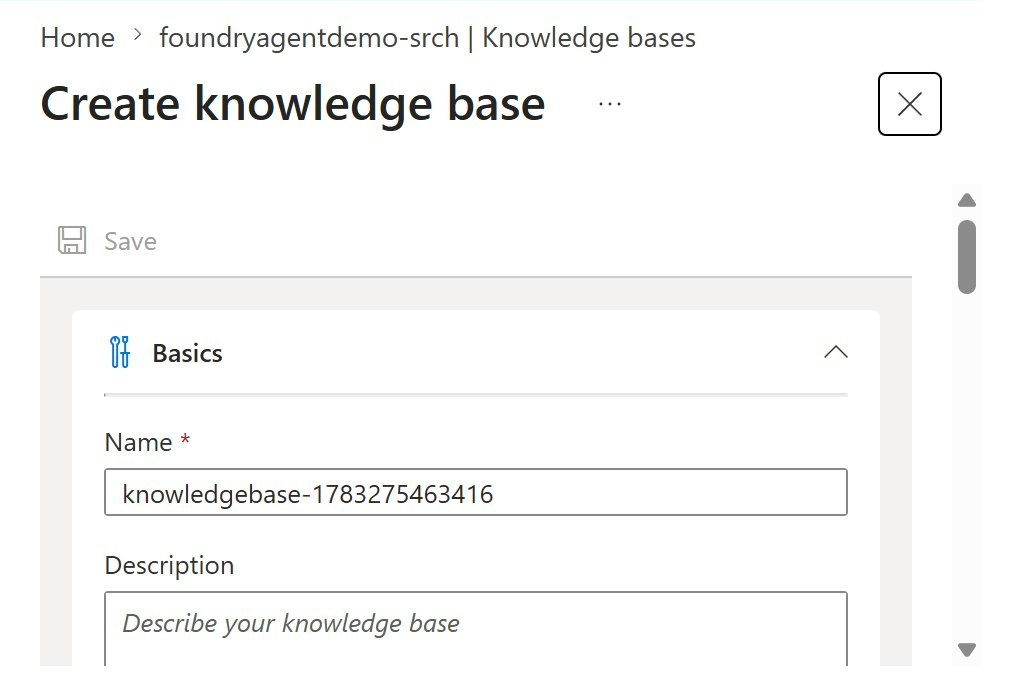
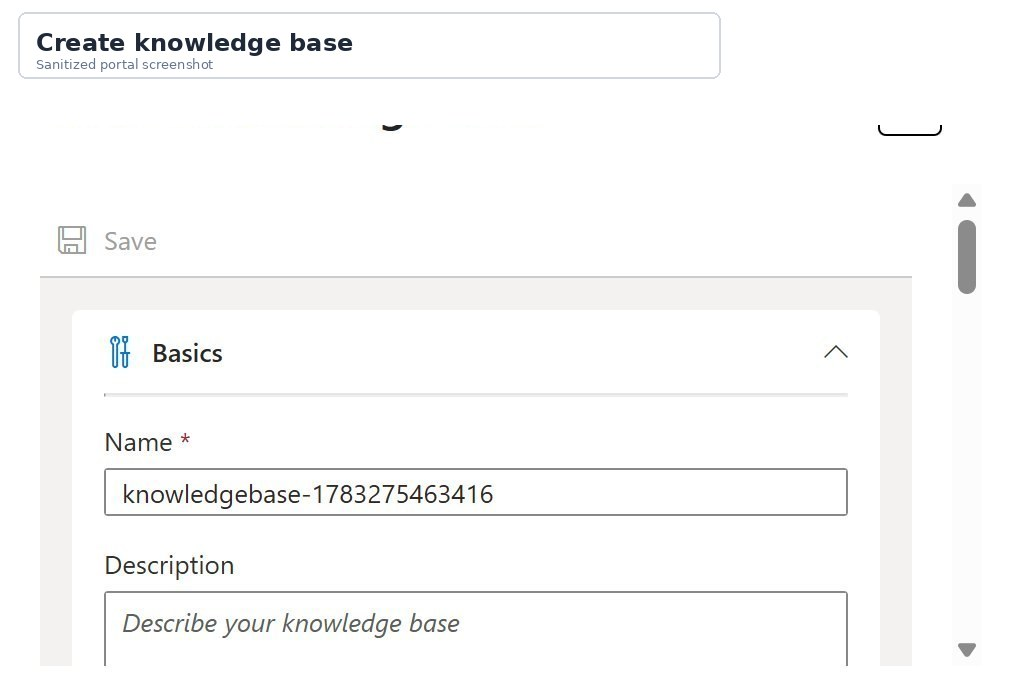
docs: finish 101a toc and screenshot sanitization

Changed region(s): [[0.0306, 0.0301, 0.6739, 0.1808], [0.8883, 0.1205, 0.919, 0.1808], [0.8577, 0.0904, 0.8883, 0.1205]]

diff --git a/scripts/sanitize-portal-screenshots.py b/scripts/sanitize-portal-screenshots.py
@@ -1,0 +1,56 @@
+from __future__ import annotations
+
+from pathlib import Path
+from PIL import Image, ImageDraw, ImageFont, ImageFilter
+
+ASSET_DIR = Path("labs/foundry-101a-corpus-foundry-iq/assets")
+
+LABELS = {
+    "portal-storage-containers.jpg": "Storage account | Containers",
+    "portal-knowledge-sources-list.jpg": "Search service | Knowledge sources",
+    "portal-add-knowledge-source-menu.jpg": "Search service | Knowledge sources",
+    "portal-create-knowledge-source-form.jpg": "Create knowledge source",
+    "portal-knowledge-bases-list.jpg": "Search service | Knowledge bases",
+    "portal-add-knowledge-base-menu.jpg": "Search service | Knowledge bases",
+    "portal-create-knowledge-base-form.jpg": "Create knowledge base",
+}
+
+
+def font(size: int, bold: bool = False):
+    candidates = [
+        "/usr/share/fonts/truetype/dejavu/DejaVuSans-Bold.ttf" if bold else "/usr/share/fonts/truetype/dejavu/DejaVuSans.ttf",
+        "/usr/share/fonts/truetype/liberation2/LiberationSans-Bold.ttf" if bold else "/usr/share/fonts/truetype/liberation2/LiberationSans-Regular.ttf",
+    ]
+    for candidate in candidates:
+        if Path(candidate).exists():
+            return ImageFont.truetype(candidate, size=size)
+    return ImageFont.load_default()
+
+
+def redact_header(path: Path, label: str) -> None:
+    img = Image.open(path).convert("RGB")
+    draw = ImageDraw.Draw(img)
+    width, _ = img.size
+
+    # Azure portal blade headings sit near the top of the focused crop. Cover
+    # the resource-specific title band while keeping toolbar/body controls visible.
+    draw.rectangle((0, 0, width, 124), fill="#ffffff")
+    draw.rounded_rectangle((18, 12, min(width - 18, 720), 78), radius=8, fill="#ffffff", outline="#d0d7de", width=2)
+    draw.text((36, 28), label, font=font(24, True), fill="#1f2937")
+    draw.text((36, 56), "Sanitized portal screenshot", font=font(13), fill="#64748b")
+
+    # Lightly blur the far top-right corner in case tenant/resource breadcrumbs
+    # are present in a crop from a wider desktop viewport.
+    if width > 760:
+        region = img.crop((760, 0, width, 96)).filter(ImageFilter.GaussianBlur(radius=10))
+        img.paste(region, (760, 0))
+
+    img.save(path, quality=88, optimize=True)
+
+
+if __name__ == "__main__":
+    for filename, label in LABELS.items():
+        path = ASSET_DIR / filename
+        if path.exists():
+            redact_header(path, label)
+            print(path)

diff --git a/_labs/foundry-101a-corpus-foundry-iq.md b/_labs/foundry-101a-corpus-foundry-iq.md
@@ -24,6 +24,22 @@ Lab ini menyiapkan corpus fiktif Contoso Indonesia dan knowledge base Foundry IQ
 | --- | --- | --- | --- |
 | L100 | Business user / maker | 30-45 minutes | Corpus siap di Blob Storage, knowledge source dan knowledge base siap dipakai untuk grounded testing. |
 
+## Table of Contents
+
+- [Why This Matters](#why-this-matters)
+- [Introduction](#introduction)
+- [Core Concepts Overview](#core-concepts-overview)
+- [Documentation and Additional Training Links](#documentation-and-additional-training-links)
+- [Prerequisites](#prerequisites)
+- [Summary of Targets](#summary-of-targets)
+- [Use Cases Covered](#use-cases-covered)
+- [Instructions by Use Case](#instructions-by-use-case)
+- [Use Case #1: Review dan upload corpus](#use-case-1-review-dan-upload-corpus)
+- [Use Case #2: Create knowledge source](#use-case-2-create-knowledge-source)
+- [Use Case #3: Create dan test knowledge base](#use-case-3-create-dan-test-knowledge-base)
+- [Summary of learnings](#summary-of-learnings)
+- [Conclusions and recommendations](#conclusions-and-recommendations)
+
 ## Why This Matters
 
 Banyak demo chatbot gagal bukan karena modelnya buruk, tetapi karena knowledge source belum siap: dokumen tidak lengkap, tabel tidak terbaca, indexer gagal, atau sumber yang mirip bercampur. Lab ini sengaja mulai dari corpus dan retrieval supaya agent di lab berikutnya tidak hanya terlihat pintar, tetapi bisa dibuktikan grounding-nya.

diff --git a/labs/foundry-101a-corpus-foundry-iq/README.md b/labs/foundry-101a-corpus-foundry-iq/README.md
@@ -24,6 +24,22 @@ Lab ini menyiapkan corpus fiktif Contoso Indonesia dan knowledge base Foundry IQ
 | --- | --- | --- | --- |
 | L100 | Business user / maker | 30-45 minutes | Corpus siap di Blob Storage, knowledge source dan knowledge base siap dipakai untuk grounded testing. |
 
+## Table of Contents
+
+- [Why This Matters](#why-this-matters)
+- [Introduction](#introduction)
+- [Core Concepts Overview](#core-concepts-overview)
+- [Documentation and Additional Training Links](#documentation-and-additional-training-links)
+- [Prerequisites](#prerequisites)
+- [Summary of Targets](#summary-of-targets)
+- [Use Cases Covered](#use-cases-covered)
+- [Instructions by Use Case](#instructions-by-use-case)
+- [Use Case #1: Review dan upload corpus](#use-case-1-review-dan-upload-corpus)
+- [Use Case #2: Create knowledge source](#use-case-2-create-knowledge-source)
+- [Use Case #3: Create dan test knowledge base](#use-case-3-create-dan-test-knowledge-base)
+- [Summary of learnings](#summary-of-learnings)
+- [Conclusions and recommendations](#conclusions-and-recommendations)
+
 ## Why This Matters
 
 Banyak demo chatbot gagal bukan karena modelnya buruk, tetapi karena knowledge source belum siap: dokumen tidak lengkap, tabel tidak terbaca, indexer gagal, atau sumber yang mirip bercampur. Lab ini sengaja mulai dari corpus dan retrieval supaya agent di lab berikutnya tidak hanya terlihat pintar, tetapi bisa dibuktikan grounding-nya.
